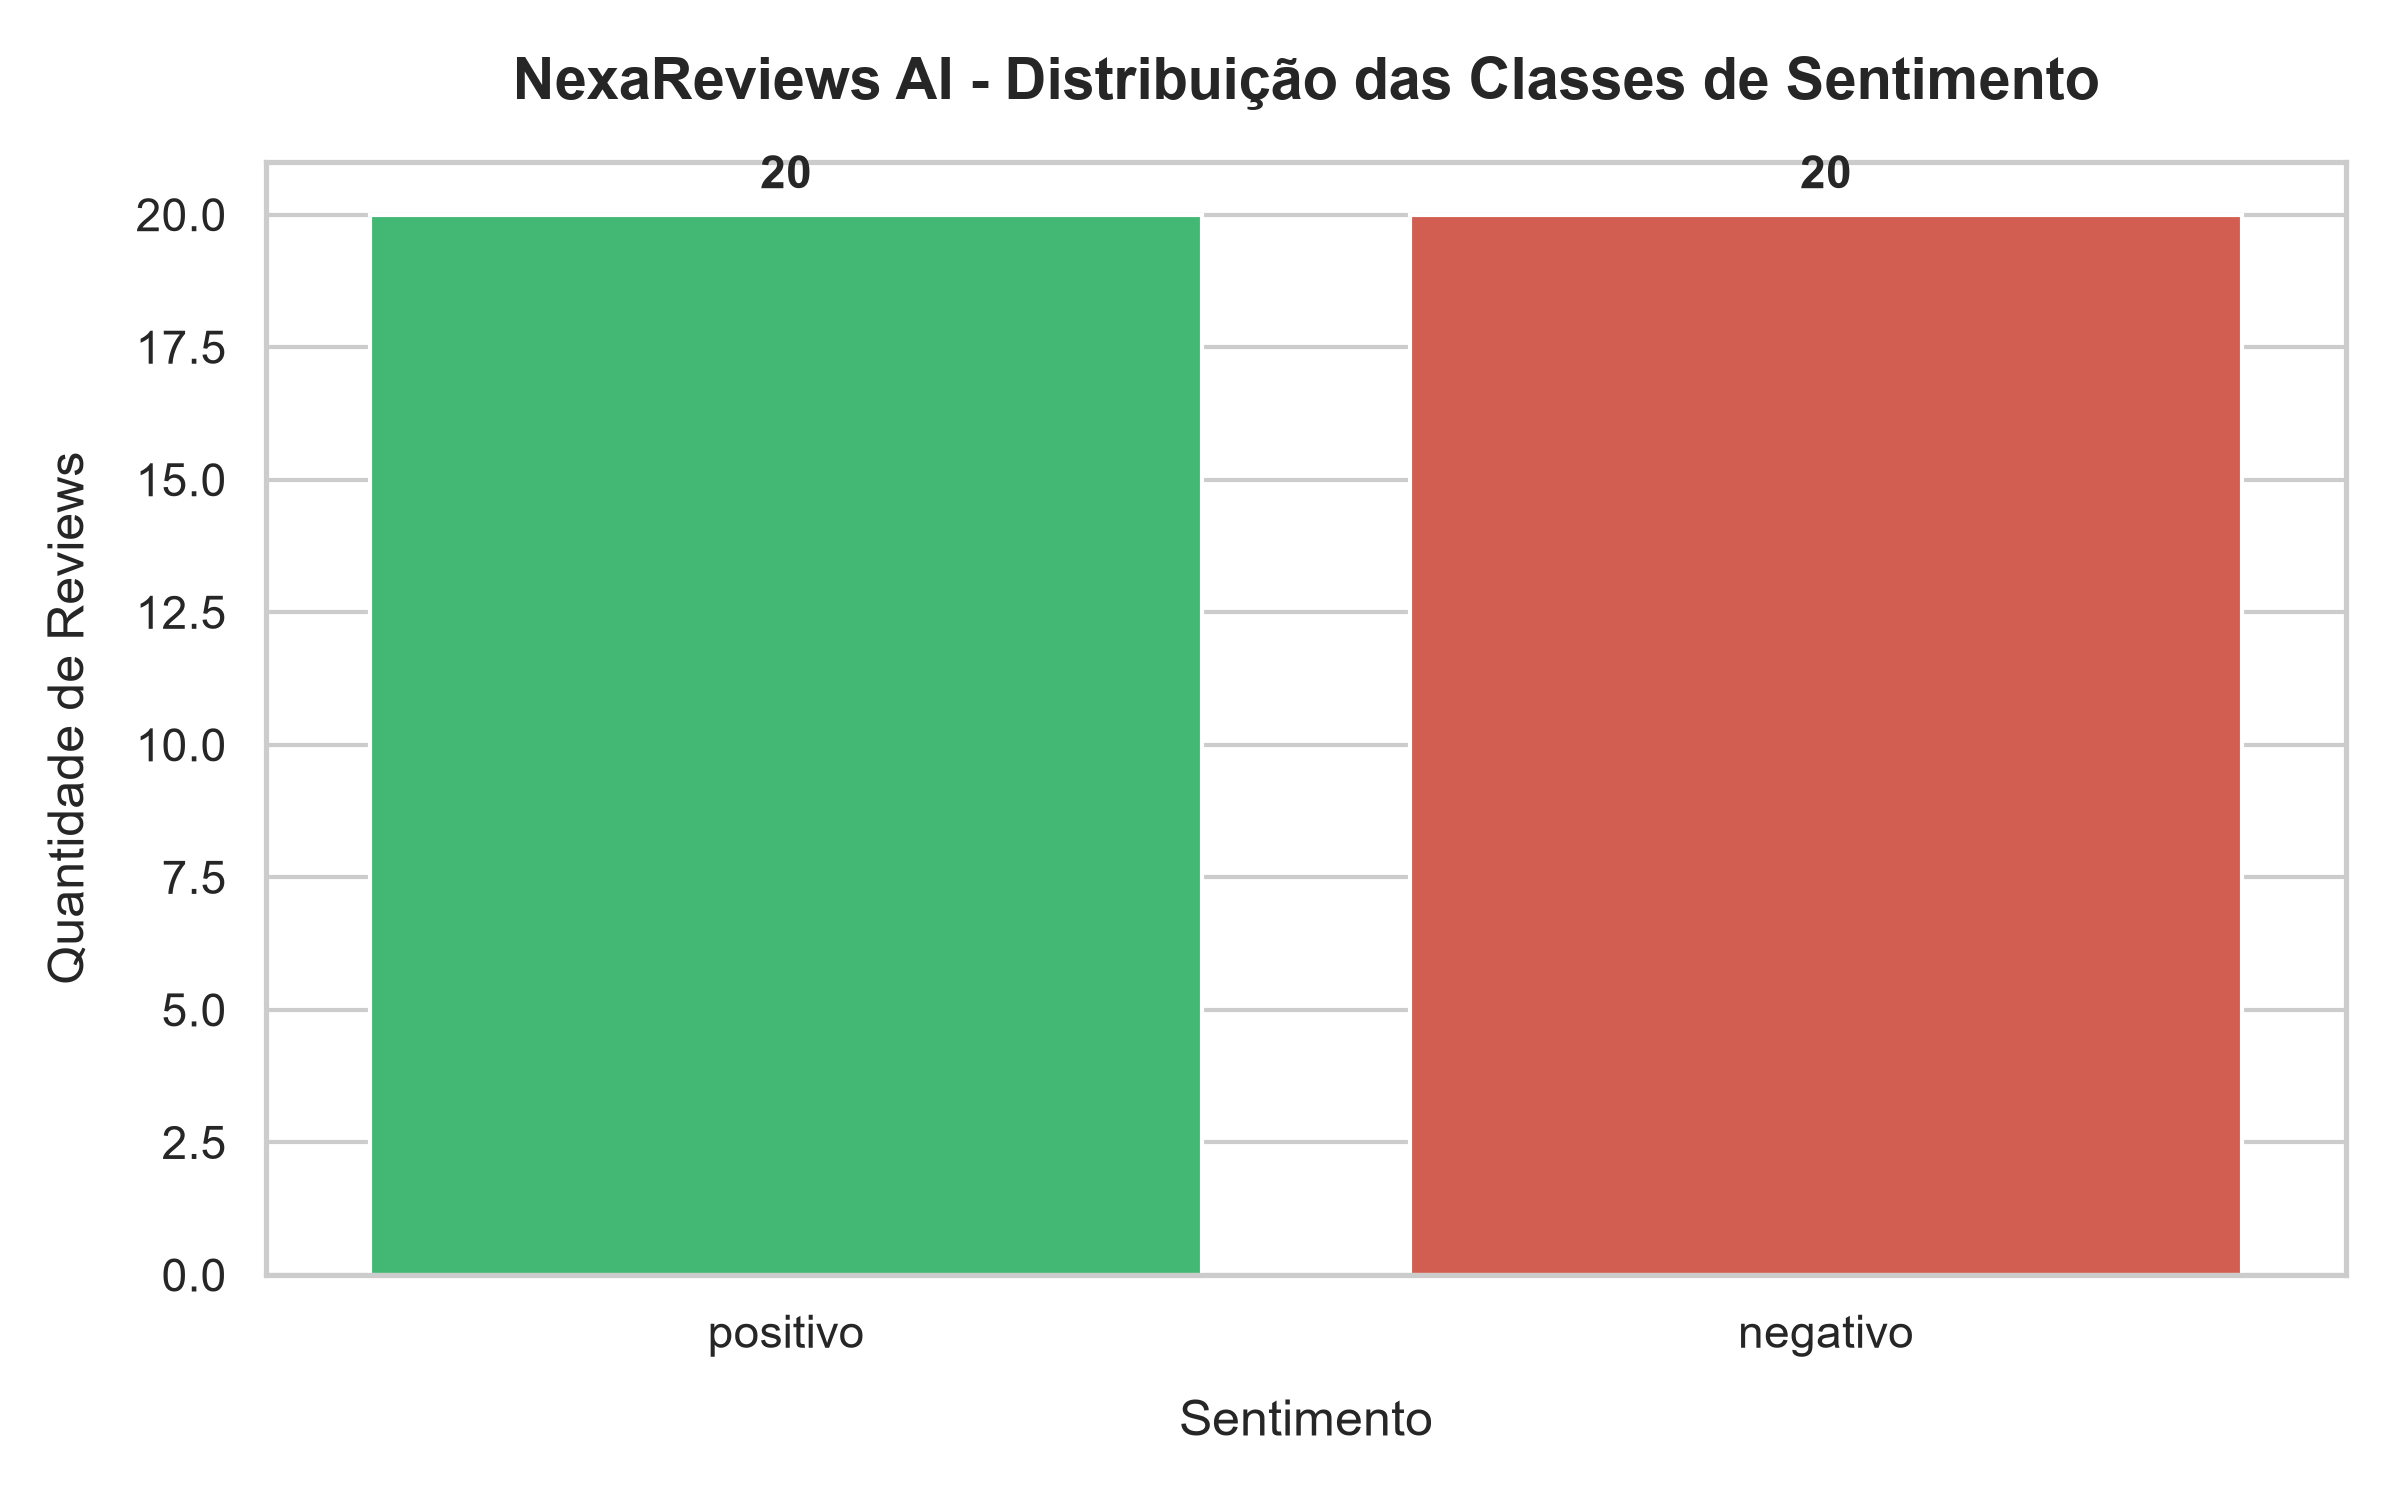
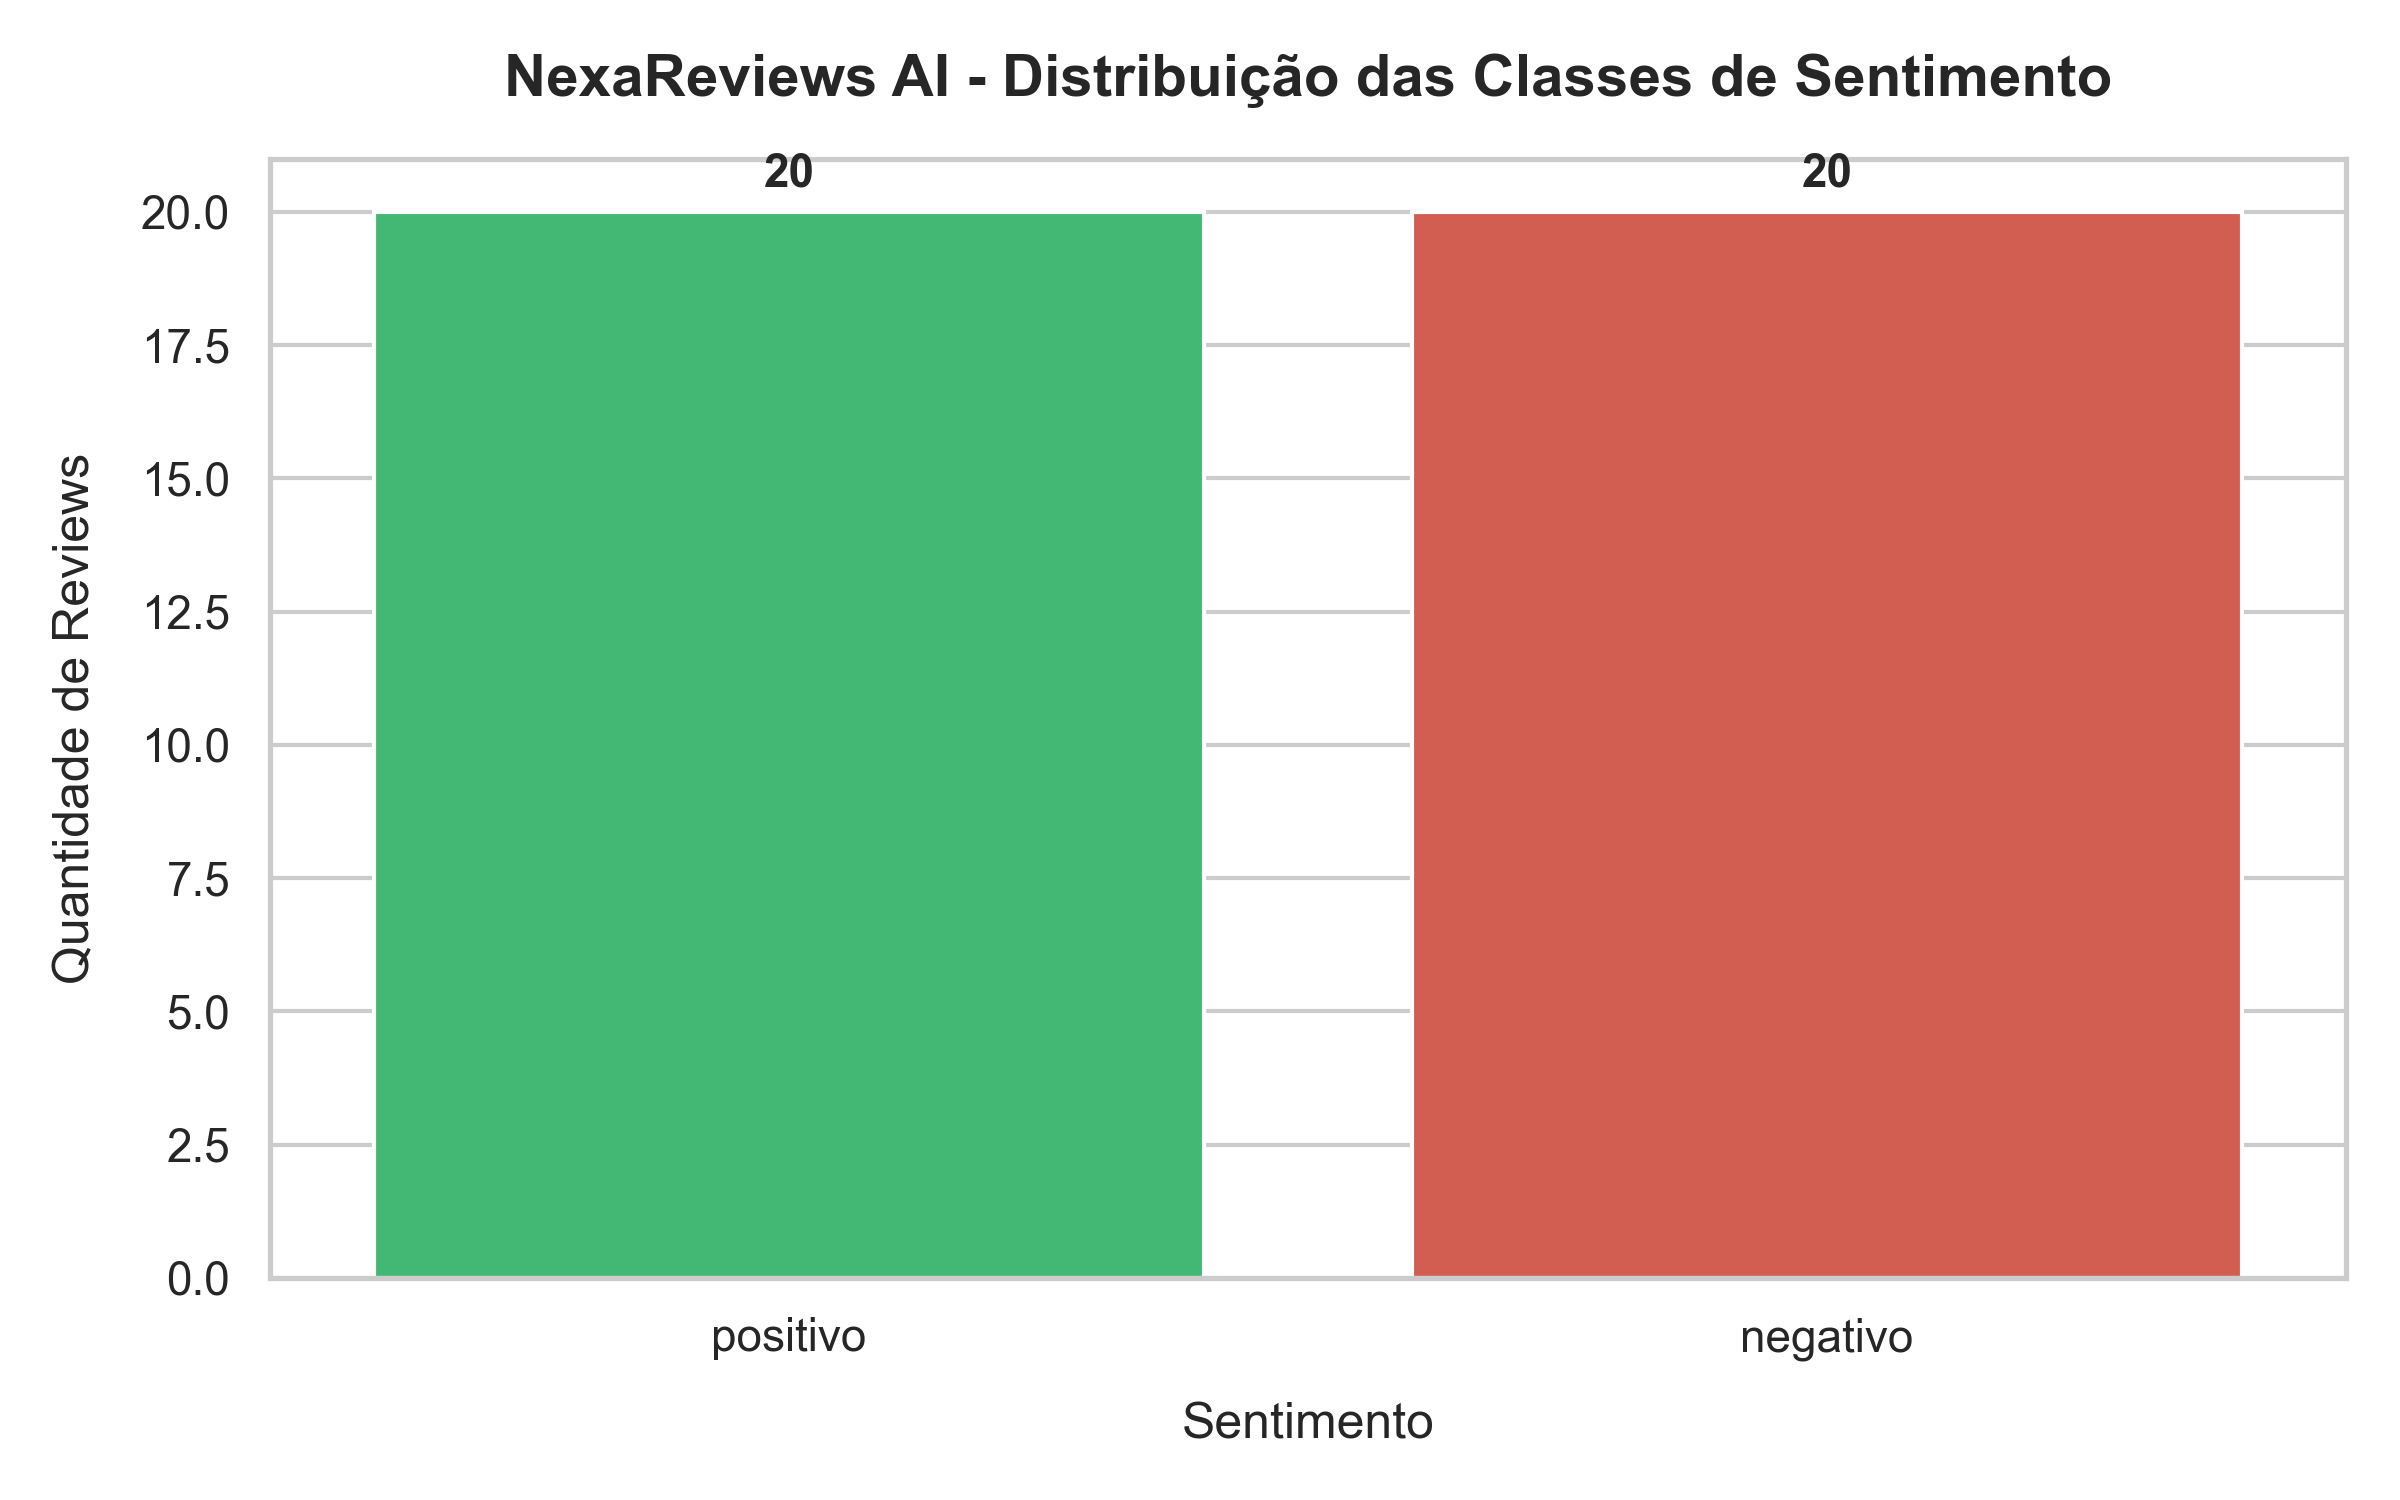
Changes to the API base and README.md

diff --git a/frontend/src/index.css b/frontend/src/index.css
@@ -50,7 +50,8 @@
   padding: 0;
 }
 
-html, body {
+html,
+body {
   min-height: 100vh;
   background-color: var(--bg-dark);
   color: var(--text-primary);
@@ -357,7 +358,8 @@ body::before {
   transform: translateY(0);
 }
 
-.btn-primary:disabled, .btn-secondary:disabled {
+.btn-primary:disabled,
+.btn-secondary:disabled {
   opacity: 0.5;
   cursor: not-allowed;
   transform: none;
@@ -375,12 +377,23 @@ body::before {
 }
 
 @keyframes spin {
-  to { transform: rotate(360deg); }
+  to {
+    transform: rotate(360deg);
+  }
 }
 
 @keyframes pulse {
-  0%, 100% { opacity: 1; transform: scale(1); }
-  50% { opacity: 0.5; transform: scale(1.15); }
+
+  0%,
+  100% {
+    opacity: 1;
+    transform: scale(1);
+  }
+
+  50% {
+    opacity: 0.5;
+    transform: scale(1.15);
+  }
 }
 
 /* Result Box Display */
@@ -633,6 +646,7 @@ body::before {
     opacity: 0;
     transform: translateY(6px);
   }
+
   to {
     opacity: 1;
     transform: translateY(0);
@@ -645,14 +659,18 @@ body::before {
     padding: 1.25rem 1rem 2.5rem;
     gap: 1.5rem;
   }
+
   .glass-card {
     padding: 1.25rem;
     border-radius: 16px;
   }
+
   .actions-bar {
     justify-content: stretch;
   }
-  .btn-primary, .btn-secondary {
+
+  .btn-primary,
+  .btn-secondary {
     width: 100%;
   }
 }

diff --git a/src/api.py b/src/api.py
@@ -70,6 +70,8 @@ class ReviewResponse(BaseModel):
 
 class HealthResponse(BaseModel):
     """Esquema de resposta para o endpoint de integridade do serviço."""
+    model_config = {"protected_namespaces": ()}
+
     status: str = Field(default="ok", description="Status operacional da API")
     model_loaded: bool = Field(..., description="Indica se o modelo preditivo está pronto em memória")
     model_path: Optional[str] = Field(default=None, description="Caminho do arquivo do modelo carregado")

diff --git a/README.md b/README.md
@@ -159,57 +159,82 @@ O frontend oferece uma experiência de usuário rica e fluida:
 ## 🚀 Como Executar o Projeto
 
 ### 1. Pré-requisitos
-- **Python 3.10+** (recomendado Python 3.10 a 3.13)
+- **Python 3.10 a 3.13** (Altamente recomendado Python 3.11, 3.12 ou 3.13 para compatibilidade total de binários pré-compilados do NumPy, Pandas e Scikit-Learn)
 - **Node.js 18+** e **npm**
 
 ---
 
-### 2. Configuração do Backend (Python / FastAPI)
+### 2. Configuração e Execução do Backend (FastAPI)
 
-1. Clone ou acesse o diretório raiz do projeto:
+1. Abra o terminal e acesse o diretório raiz do projeto:
    ```bash
    cd NexaReviewsAI
    ```
 
-2. Crie e ative o ambiente virtual (opcional, mas recomendado):
+2. Crie o ambiente virtual (recomendamos especificar o Python 3.13 caso possua múltiplas versões):
    ```bash
-   # Windows (PowerShell)
+   # Windows (via Python Launcher - Recomendado caso tenha Python 3.13 instalado)
+   py -3.13 -m venv .venv
+
+   # Windows (padrão)
    python -m venv .venv
-   .venv\Scripts\Activate.ps1
 
    # Linux / macOS
    python3 -m venv .venv
+   ```
+
+3. Ative o ambiente virtual:
+   ```bash
+   # Windows (PowerShell)
+   .venv\Scripts\Activate.ps1
+
+   # Se o PowerShell bloquear a execução de scripts, execute antes:
+   # Set-ExecutionPolicy -Scope Process -ExecutionPolicy Bypass
+
+   # Windows (Prompt de Comando / CMD)
+   .venv\Scripts\activate.bat
+
+   # Linux / macOS
    source .venv/bin/activate
    ```
 
-3. Instale as dependências do projeto:
+4. Instale as dependências do projeto:
    ```bash
    pip install -r requirements.txt
    ```
 
-4. *(Opcional)* Treine o modelo executando o script principal:
+5. *(Opcional)* Treine e gere os artefatos do modelo de Machine Learning:
    ```bash
    python main.py
    ```
-   > **Nota:** A API também conta com carregamento automático inteligente; caso o arquivo `.pkl` ainda não exista, ela treina e salva o modelo automaticamente ao iniciar.
+   > **Nota:** A API conta com carregamento automático e inteligente; caso os arquivos `.pkl` ainda não existam em `models/`, ela treinará e salvará o modelo automaticamente no startup.
 
-5. Inicie o servidor da API FastAPI:
+6. Inicie o servidor da API FastAPI:
    ```bash
+   # Opção 1 (via Uvicorn CLI):
    uvicorn src.api:app --reload
+
+   # Opção 2 (via módulo Python):
+   python -m uvicorn src.api:app --reload
+
+   # Opção 3 (executando o arquivo diretamente):
+   python src/api.py
    ```
-   A API estará disponível em: **`http://localhost:8000`**  
-   Documentação interativa Swagger: **`http://localhost:8000/docs`**
+
+   - A API estará disponível em: **`http://localhost:8000`** ou **`http://127.0.0.1:8000`**  
+   - Documentação interativa Swagger UI: **`http://localhost:8000/docs`**  
+   - Documentação ReDoc: **`http://localhost:8000/redoc`**  
 
 ---
 
-### 3. Configuração do Frontend (Vite + React + TypeScript)
+### 3. Configuração e Execução do Frontend (Vite + React + TypeScript)
 
-1. Abra um novo terminal e navegue até a pasta `frontend`:
+1. Abra um **novo terminal** e navegue até a pasta `frontend`:
    ```bash
    cd frontend
    ```
 
-2. Instale os pacotes npm:
+2. Instale as dependências npm:
    ```bash
    npm install
    ```
@@ -224,25 +249,39 @@ O frontend oferece uma experiência de usuário rica e fluida:
 
 ---
 
-## 🧪 Exemplos de Teste via cURL / Terminal
+## 🧪 Exemplos de Teste da API
 
-### Verificação de Saúde (Health Check):
+### 1. Verificação de Saúde (Health Check)
 ```bash
+# cURL
 curl -X GET "http://localhost:8000/health"
+
+# PowerShell
+Invoke-RestMethod -Uri "http://localhost:8000/health" -Method Get
 ```
 
-### Análise de Review Positivo:
+### 2. Análise de Avaliação Positiva
 ```bash
+# cURL
 curl -X POST "http://localhost:8000/predict" \
   -H "Content-Type: application/json" \
-  -d '{"text": "Amei o produto, entrega super rápida e qualidade excelente!"}'
+  -d "{\"text\": \"Amei o produto, entrega super rapida e qualidade excelente!\"}"
+
+# PowerShell
+$body = '{"text": "Amei o produto, entrega super rapida e qualidade excelente!"}'
+Invoke-RestMethod -Uri "http://localhost:8000/predict" -Method Post -Body $body -ContentType "application/json; charset=utf-8"
 ```
 
-### Análise de Review Negativo:
+### 3. Análise de Avaliação Negativa
 ```bash
+# cURL
 curl -X POST "http://localhost:8000/predict" \
   -H "Content-Type: application/json" \
-  -d '{"text": "Péssimo produto, quebrou no primeiro dia e não recomendo."}'
+  -d "{\"text\": \"Pessimo produto, quebrou no primeiro dia e nao recomendo.\"}"
+
+# PowerShell
+$body = '{"text": "Pessimo produto, quebrou no primeiro dia e nao recomendo."}'
+Invoke-RestMethod -Uri "http://localhost:8000/predict" -Method Post -Body $body -ContentType "application/json; charset=utf-8"
 ```
 
 ---
